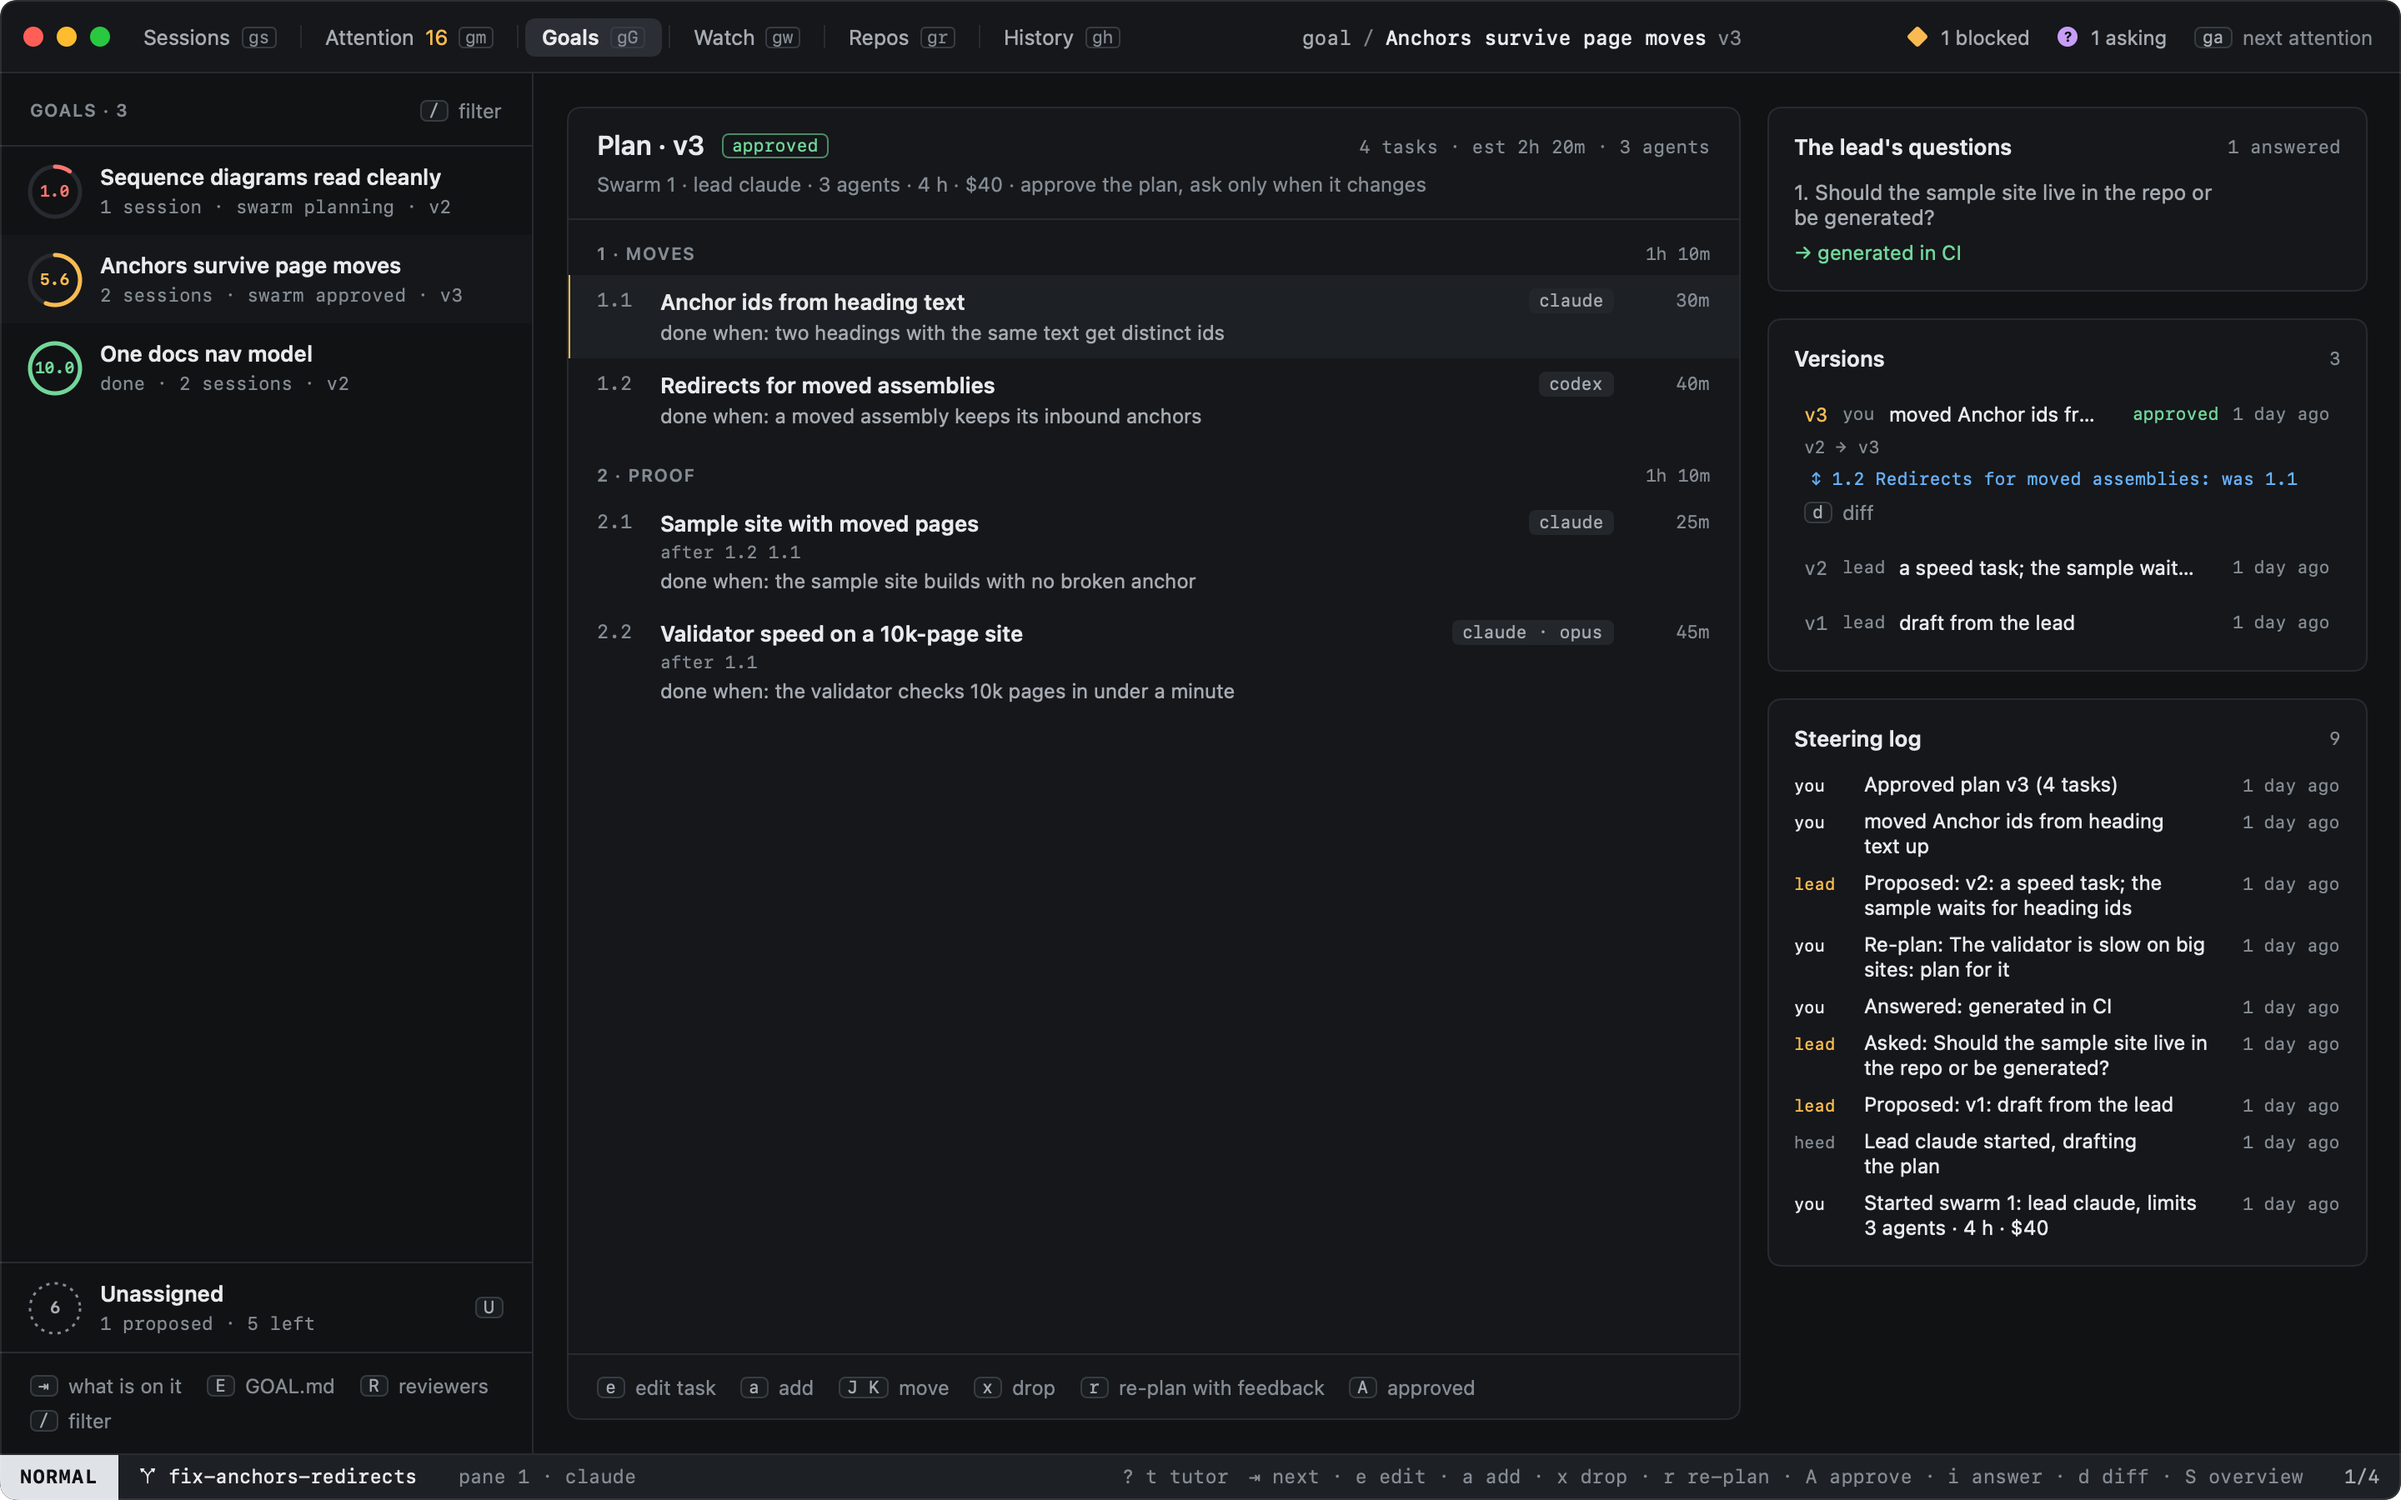
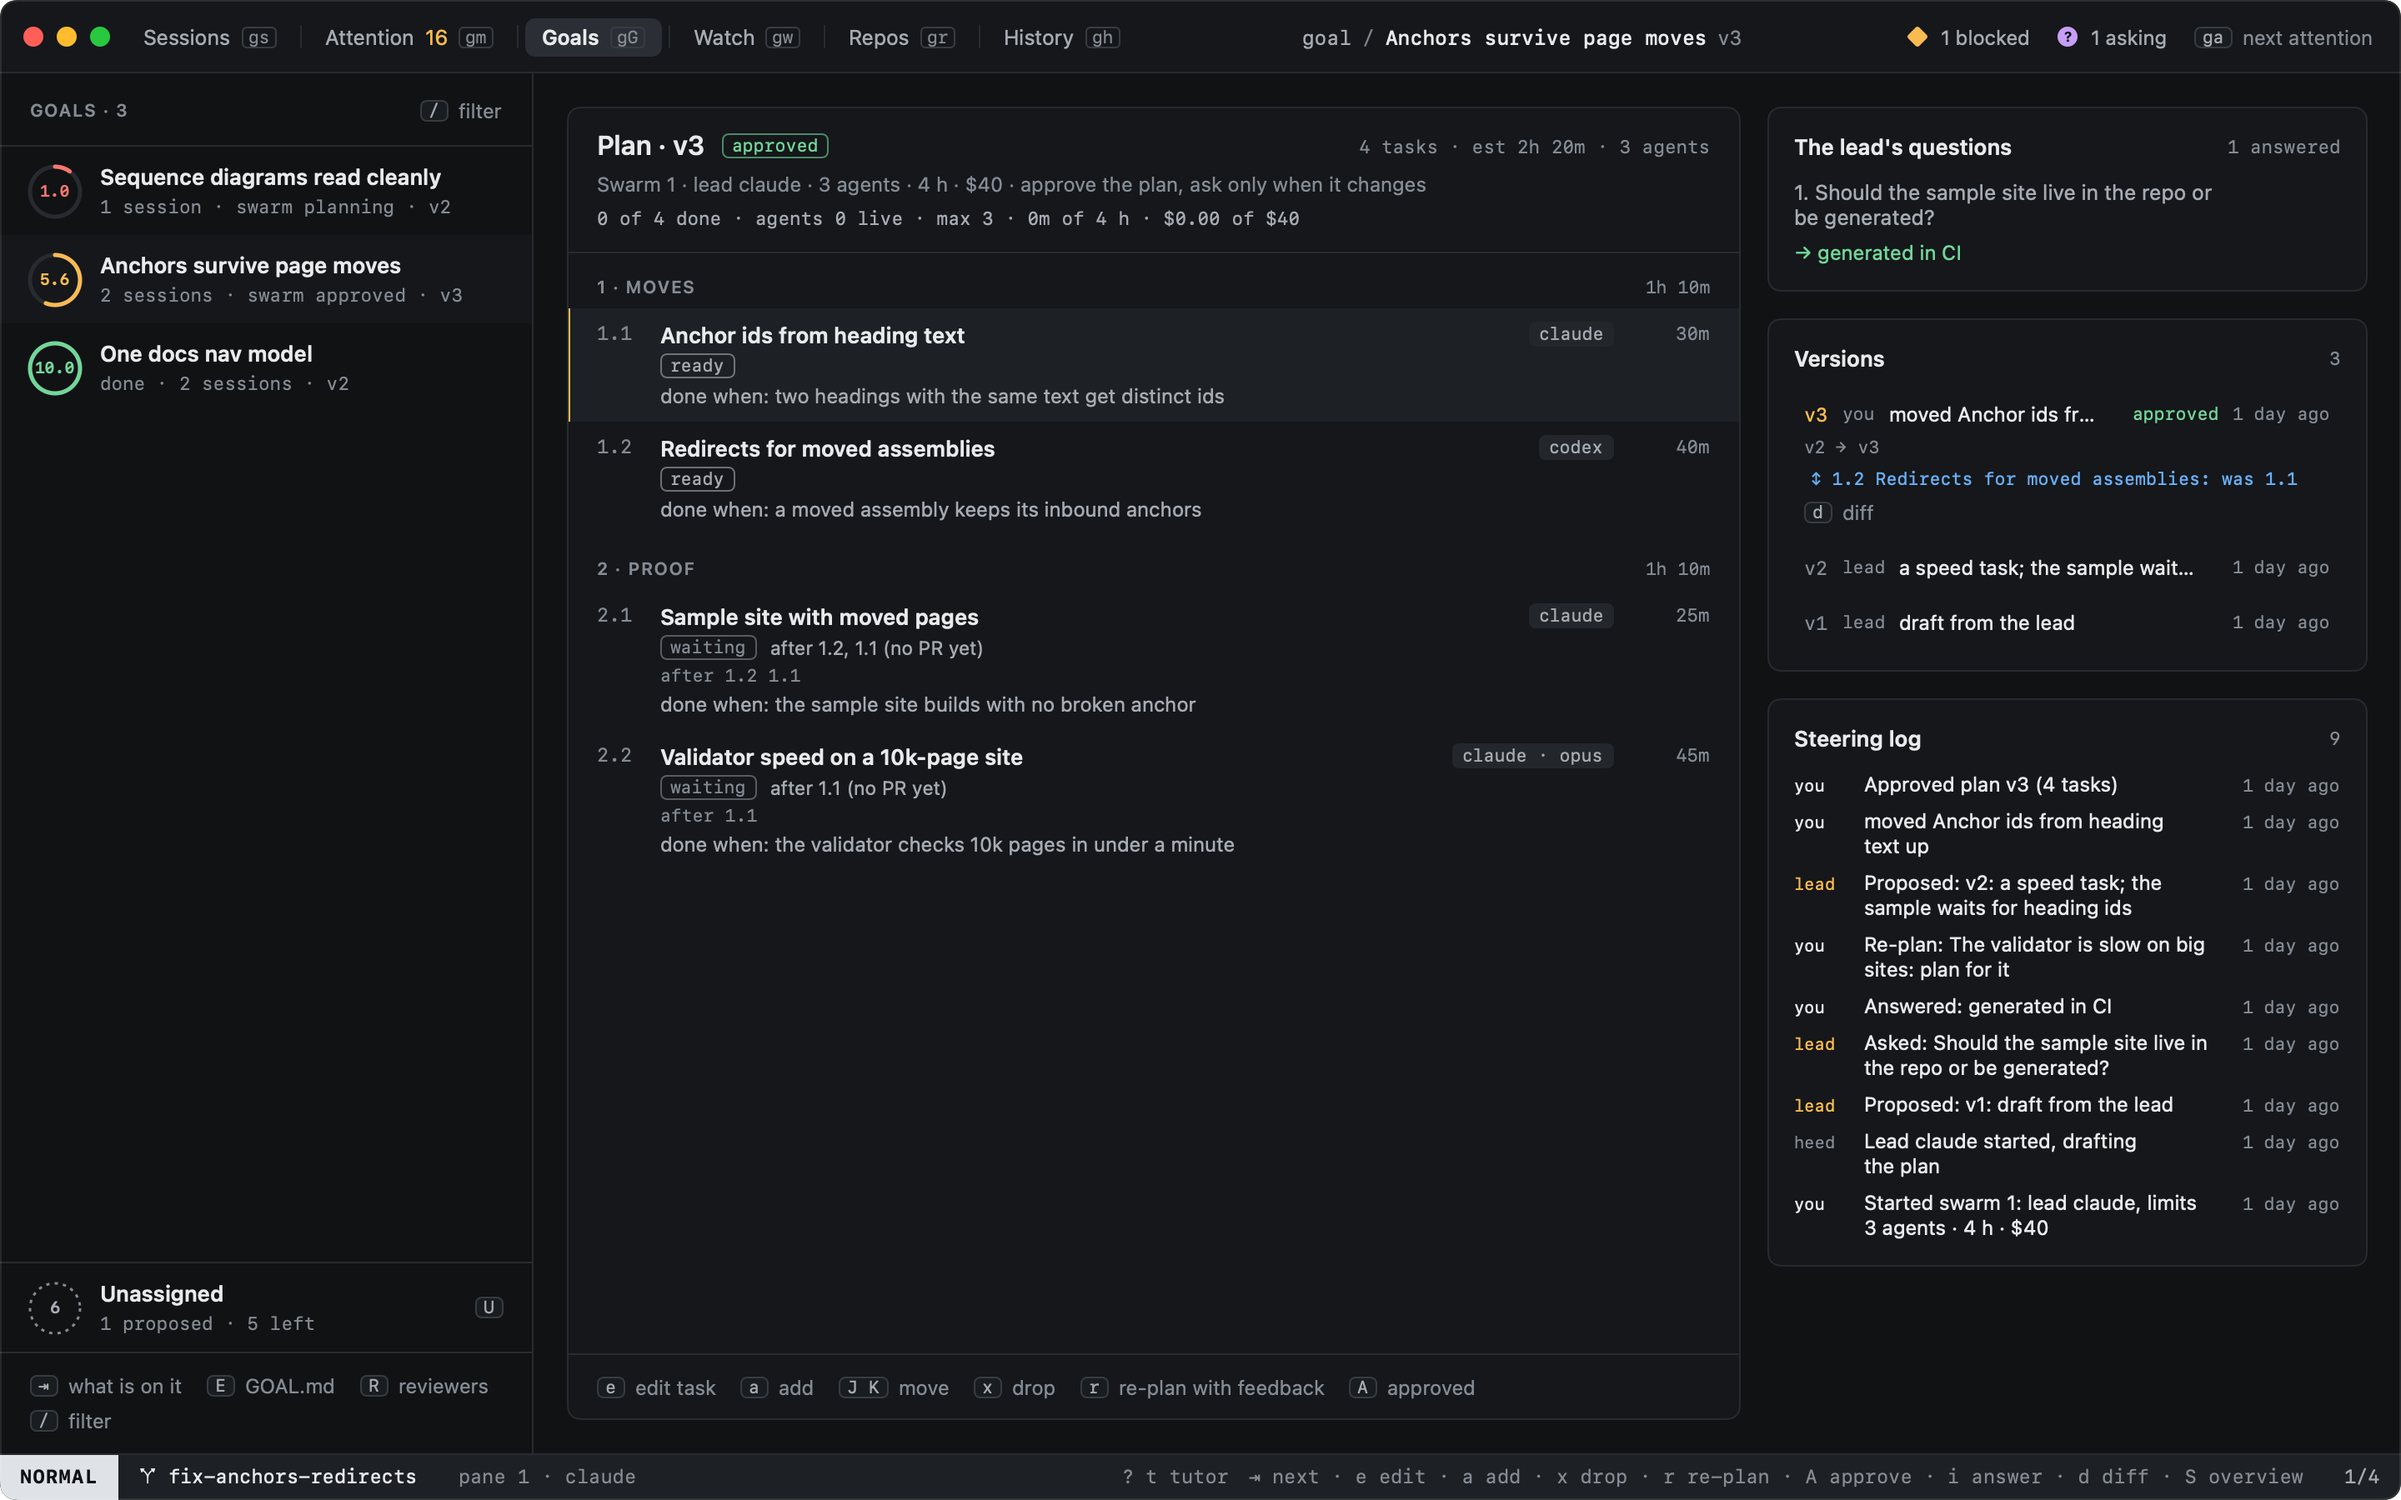
Swarms S2: shots and the key reference after the Goals keys merge

diff --git a/docs/keyboard/reference.md b/docs/keyboard/reference.md
@@ -210,8 +210,12 @@ This page is generated from the code (`mise run shots`).
 | `swarm.new` `[title]` |  | new swarm: a goal, where it works, its lead and team, its limits; the lead drafts a plan for you to approve |
 | `swarm.start` |  | swarm this goal: a lead drafts a plan for its work (the form first) |
 | `swarm.stop` |  | stop the goal's swarm: nothing more starts, its plan and steering stay readable |
+| `swarm.pause` |  | pause the goal's swarm (again: resume): nothing more starts, workers at work finish their turn |
 | `swarm.approve` | `A` (goalplan) | approve the swarm's plan (or the change waiting for you): its tasks become items |
 | `swarm.accept` | `y` (goalplan) | yes to the plan change waiting for you: it becomes the approved plan |
+| `swarm.task.pause` | `p` (goalplan) | pause the swarm task under the cursor (again: resume): its worker stops, its worktree stays |
+| `swarm.task.swap` `<agent[:model]>` | `t` (goalplan) | hand the swarm task under the cursor to another agent; a working worker hands over its worktree |
+| `swarm.task.open` | `s` (goalplan) | the swarm task under the cursor's worker: its tab |
 | `swarm.reject` `[why]` | `n` (goalplan) | no to the plan change waiting for you; the lead hears why |
 | `swarm.task.edit` | `e` (goalplan) | edit the plan's task under the cursor: a new plan version |
 | `swarm.task.add` `[title]` | `a` (goalplan) | add a task after the one under the cursor, in its phase: a new plan version |
